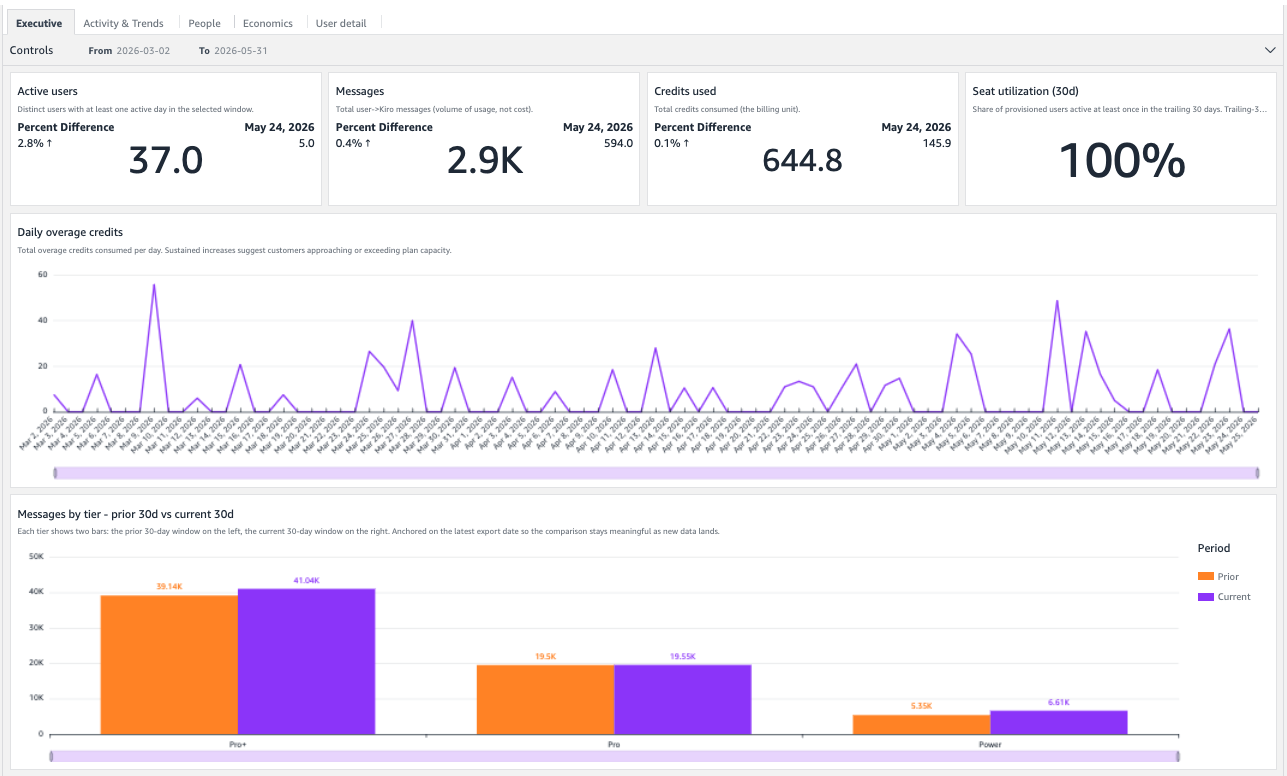
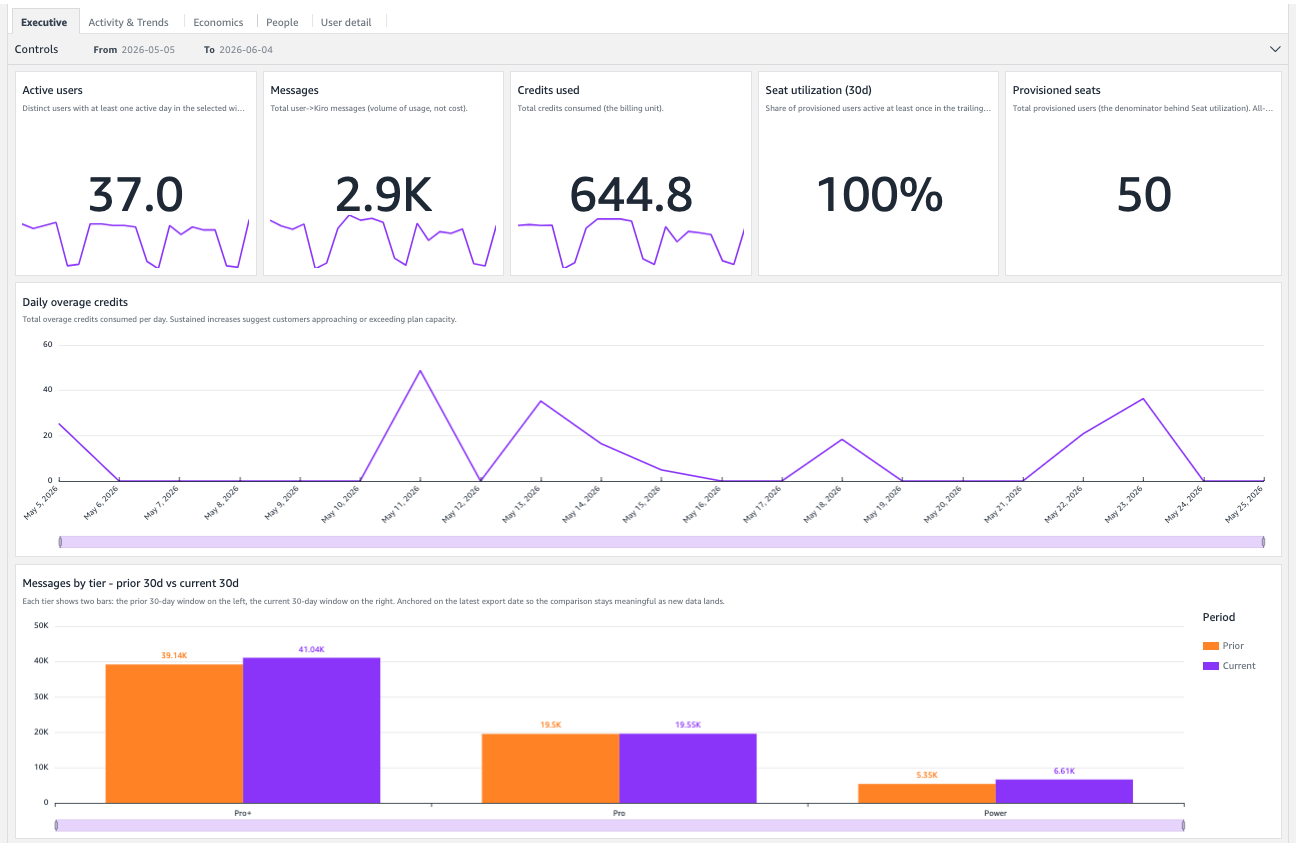
Clarify Executive/User-detail KPI tiles and document usage-based tiering
KPI tiles previously showed a period-over-period "Difference" with the latest
trend date (e.g. "Jun 2, 2026"), which read as if the data stopped on that date
and as a second number that did not match the windowed total. A KPI with a date
TrendGroup shows this "secondary value" by default, so set
KPIOptions.SecondaryValue.Visibility = HIDDEN to remove the date/difference
while keeping the sparkline, and raise the tile height so the sparkline renders.
Tiles now show: title, windowed total, and a sparkline trend.

Refresh the Executive screenshot to match. Document in Known limitations that
tier/credits reflect observed usage from the activity export (not a user's
current subscription), and that KPI tiles show the selected-range total.

diff --git a/scripts/create_dashboard.py b/scripts/create_dashboard.py
@@ -556,9 +556,10 @@ def _sub(visual: dict, subtitle: str) -> dict:
 
 def _kpi_sparkline(visual_id: str, title: str, dataset: str, value_col: str,
                    date_col: str, agg: str = "SUM"):
-    """KPI tile with a sparkline (TrendGroups) and a comparison value
-    (period-over-period). The comparison is computed by QS using a
-    SecondaryValue on the previous period.
+    """KPI tile showing the windowed total with a sparkline trend
+    (TrendGroups gives the sparkline its daily series). No period-over-period
+    comparison: see the KPIOptions note below for why the comparison/date
+    label is intentionally omitted.
     """
     return {
         "KPIVisual": {
@@ -583,9 +584,17 @@ def _kpi_sparkline(visual_id: str, title: str, dataset: str, value_col: str,
                     }],
                 },
                 "KPIOptions": {
+                    # KPI shows the windowed total + a sparkline trend only.
+                    # A KPI with a date TrendGroup auto-renders a "secondary
+                    # value" - the latest trend point's DATE (e.g. "Jun 2,
+                    # 2026") next to a period-over-period difference. That read
+                    # as "data ends June 2" and as a number that didn't match
+                    # the windowed total. SecondaryValue: HIDDEN suppresses that
+                    # date/difference while keeping the sparkline. (Omitting the
+                    # Comparison/TrendArrows blocks alone does NOT remove it -
+                    # the secondary value is on by default for a TrendGroup KPI.)
                     "Sparkline": {"Type": "LINE", "Visibility": "VISIBLE"},
-                    "TrendArrows": {"Visibility": "VISIBLE"},
-                    "Comparison": {"ComparisonMethod": "PERCENT_DIFFERENCE"},
+                    "SecondaryValue": {"Visibility": "HIDDEN"},
                     "PrimaryValueDisplayType": "ACTUAL",
                 },
             },
@@ -620,9 +629,17 @@ def _kpi_sparkline_calc(visual_id: str, title: str, dataset: str,
                     }],
                 },
                 "KPIOptions": {
+                    # KPI shows the windowed total + a sparkline trend only.
+                    # A KPI with a date TrendGroup auto-renders a "secondary
+                    # value" - the latest trend point's DATE (e.g. "Jun 2,
+                    # 2026") next to a period-over-period difference. That read
+                    # as "data ends June 2" and as a number that didn't match
+                    # the windowed total. SecondaryValue: HIDDEN suppresses that
+                    # date/difference while keeping the sparkline. (Omitting the
+                    # Comparison/TrendArrows blocks alone does NOT remove it -
+                    # the secondary value is on by default for a TrendGroup KPI.)
                     "Sparkline": {"Type": "LINE", "Visibility": "VISIBLE"},
-                    "TrendArrows": {"Visibility": "VISIBLE"},
-                    "Comparison": {"ComparisonMethod": "PERCENT_DIFFERENCE"},
+                    "SecondaryValue": {"Visibility": "HIDDEN"},
                     "PrimaryValueDisplayType": "ACTUAL",
                 },
             },
@@ -666,9 +683,17 @@ def _kpi_sparkline_distinct(visual_id: str, title: str, dataset: str,
                     }],
                 },
                 "KPIOptions": {
+                    # KPI shows the windowed total + a sparkline trend only.
+                    # A KPI with a date TrendGroup auto-renders a "secondary
+                    # value" - the latest trend point's DATE (e.g. "Jun 2,
+                    # 2026") next to a period-over-period difference. That read
+                    # as "data ends June 2" and as a number that didn't match
+                    # the windowed total. SecondaryValue: HIDDEN suppresses that
+                    # date/difference while keeping the sparkline. (Omitting the
+                    # Comparison/TrendArrows blocks alone does NOT remove it -
+                    # the secondary value is on by default for a TrendGroup KPI.)
                     "Sparkline": {"Type": "LINE", "Visibility": "VISIBLE"},
-                    "TrendArrows": {"Visibility": "VISIBLE"},
-                    "Comparison": {"ComparisonMethod": "PERCENT_DIFFERENCE"},
+                    "SecondaryValue": {"Visibility": "HIDDEN"},
                     "PrimaryValueDisplayType": "ACTUAL",
                 },
             },
@@ -988,14 +1013,17 @@ def build_definition(account_id: str, region: str, resource_prefix: str) -> dict
              "Total provisioned users (the denominator behind Seat utilization). All-time roster - not affected by the date-range picker."),
     ]
     # Five KPI tiles across the 36-col grid (width 7 each: 0/7/14/21/28).
+    # KPI tiles are height 6 (not 4): the sparkline only renders when the tile
+    # has enough vertical room for title + value + the trend line. At height 4
+    # QuickSight drops the sparkline.
     exec_grid = [
-        ("xv-users",          0, 0,  7, 4),
-        ("xv-messages",       7, 0,  7, 4),
-        ("xv-credits",       14, 0,  7, 4),
-        ("xv-utilization",   21, 0,  7, 4),
-        ("xv-seats",         28, 0,  8, 4),
+        ("xv-users",          0, 0,  7, 6),
+        ("xv-messages",       7, 0,  7, 6),
+        ("xv-credits",       14, 0,  7, 6),
+        ("xv-utilization",   21, 0,  7, 6),
+        ("xv-seats",         28, 0,  8, 6),
     ]
-    next_row = 4
+    next_row = 6
 
     # Executive is a 30-second status page. KPI tiles cover the headline
     # "active users / messages / credits"; one trend line for the

diff --git a/README.md b/README.md
@@ -311,6 +311,8 @@ responsibility model.
 * **User identities are shown as opaque GUIDs** unless `IDENTITY_MAPPING=true` is set and the users sign in via AWS IAM Identity Center. Customer responsibility: decide whether resolving GUIDs to real names (which pulls personal data into SPICE, possibly across regions) is appropriate for the dashboard's audience. See [Resolving user identities](#resolving-user-identities-optional) and [SECURITY.md](./SECURITY.md#identity-mapping-optional).
 * Pre-April 2026 exports lack the `email` column and per-model `_messages` columns. The build script tolerates their absence; the affected visuals show user IDs or remain empty.
 * Multiple Amazon S3 exports for the same `(user_id, date)` are deduped by keeping the lexically-latest path.
+* **Tier and credits reflect observed *usage*, not the user's current subscription.** Every value (including `subscription_tier`) comes from the Kiro User Activity Report, which records what a user actually did each day. A user who is upgraded (e.g. Pro → Pro+) but has not used Kiro since the change will still appear under their **previous** tier and credit total until their next day of activity is exported. This is expected: the dashboard is a usage analytic, not a billing/entitlement view. For current subscription status, use Kiro's own admin/billing tools.
+* **KPI tiles show the total for the selected date range, with a sparkline trend** - they intentionally do not display a day-over-day comparison or a "latest date" label, which earlier read as the data being stale. To see day-by-day movement, use the Activity & Trends sheet or widen/narrow the date range.
 
 ## Encryption at rest
 